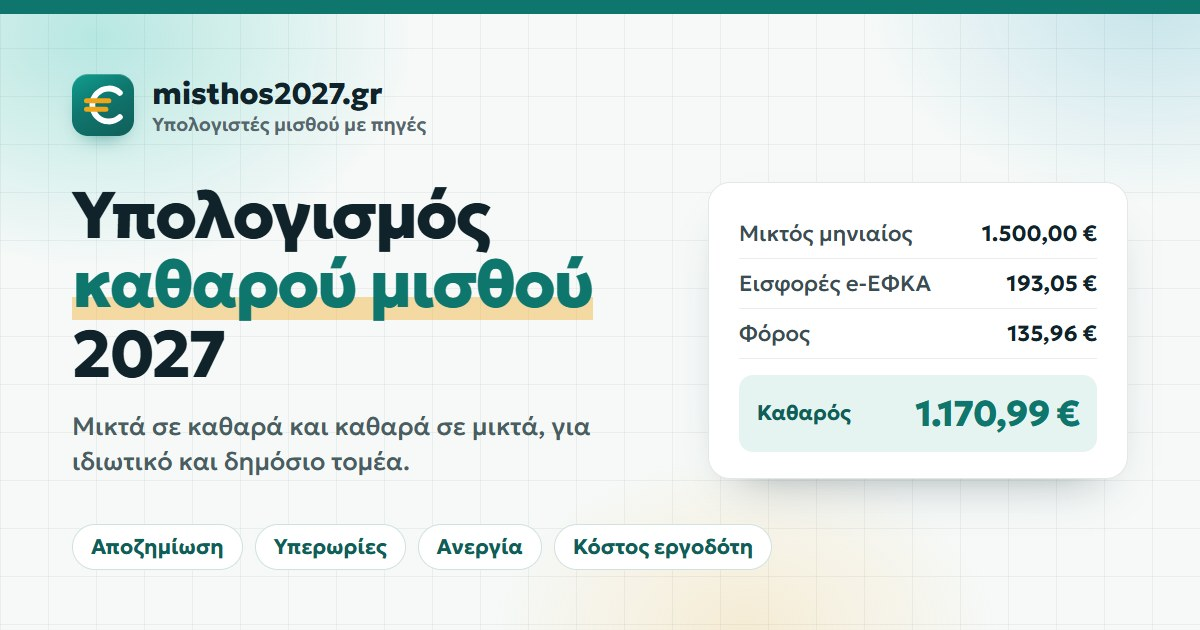
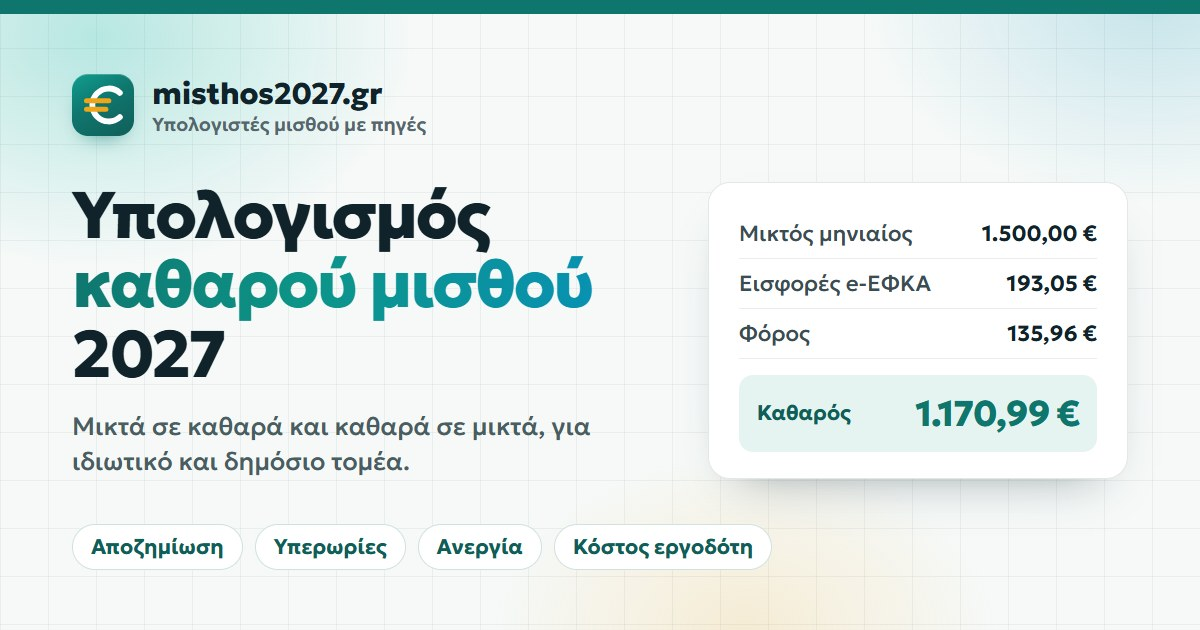
Τίτλοι με χρώμα που σβήνει από πετρόλ σε τιρκουάζ αντί για υπογράμμιση

Changed region(s): [[0.0617, 0.3921, 0.4933, 0.5127]]

diff --git a/apozimiosi-apolysis.html b/apozimiosi-apolysis.html
@@ -1643,7 +1643,7 @@ body>header,.site-header{background:rgba(255,255,255,.72);backdrop-filter:satura
 body>header nav a:hover,.nav-links a:hover{background:#e6f2f0;color:#0f766e}
 .hero{text-align:left;padding-top:44px}
 h1.hero-title{font-weight:800;letter-spacing:-.03em;line-height:1.08;max-width:880px}
-h1.hero-title .grad{background:linear-gradient(transparent 66%,rgba(242,165,22,.34) 66%,rgba(242,165,22,.34) 94%,transparent 94%);-webkit-background-clip:border-box;background-clip:border-box;color:#0f766e;-webkit-text-fill-color:#0f766e}
+h1.hero-title .grad{background:linear-gradient(100deg,#0f766e 0%,#0d9488 45%,#0891b2 100%);-webkit-background-clip:text;background-clip:text;color:transparent;-webkit-text-fill-color:transparent;padding-bottom:.06em}
 .hero-sub{margin:0;max-width:700px;font-size:17px;line-height:1.6;color:#4a5d63}
 .page-hero h1{background:none;-webkit-text-fill-color:currentColor;color:#10232b;letter-spacing:-.03em}
 .card,.content-card,.form-card,.info-card,article.article-card{background:#fff;backdrop-filter:none;-webkit-backdrop-filter:none;border:1px solid #e1e8e6;box-shadow:0 1px 2px rgba(16,35,43,.04),0 16px 36px -24px rgba(16,35,43,.22)}

diff --git a/en/index.html b/en/index.html
@@ -1650,7 +1650,7 @@ body>header,.site-header{background:rgba(255,255,255,.72);backdrop-filter:satura
 body>header nav a:hover,.nav-links a:hover{background:#e6f2f0;color:#0f766e}
 .hero{text-align:left;padding-top:44px}
 h1.hero-title{font-weight:800;letter-spacing:-.03em;line-height:1.08;max-width:880px}
-h1.hero-title .grad{background:linear-gradient(transparent 66%,rgba(242,165,22,.34) 66%,rgba(242,165,22,.34) 94%,transparent 94%);-webkit-background-clip:border-box;background-clip:border-box;color:#0f766e;-webkit-text-fill-color:#0f766e}
+h1.hero-title .grad{background:linear-gradient(100deg,#0f766e 0%,#0d9488 45%,#0891b2 100%);-webkit-background-clip:text;background-clip:text;color:transparent;-webkit-text-fill-color:transparent;padding-bottom:.06em}
 .hero-sub{margin:0;max-width:700px;font-size:17px;line-height:1.6;color:#4a5d63}
 .page-hero h1{background:none;-webkit-text-fill-color:currentColor;color:#10232b;letter-spacing:-.03em}
 .card,.content-card,.form-card,.info-card,article.article-card{background:#fff;backdrop-filter:none;-webkit-backdrop-filter:none;border:1px solid #e1e8e6;box-shadow:0 1px 2px rgba(16,35,43,.04),0 16px 36px -24px rgba(16,35,43,.22)}

diff --git a/ergodotes.html b/ergodotes.html
@@ -1632,7 +1632,7 @@ body>header,.site-header{background:rgba(255,255,255,.72);backdrop-filter:satura
 body>header nav a:hover,.nav-links a:hover{background:#e6f2f0;color:#0f766e}
 .hero{text-align:left;padding-top:44px}
 h1.hero-title{font-weight:800;letter-spacing:-.03em;line-height:1.08;max-width:880px}
-h1.hero-title .grad{background:linear-gradient(transparent 66%,rgba(242,165,22,.34) 66%,rgba(242,165,22,.34) 94%,transparent 94%);-webkit-background-clip:border-box;background-clip:border-box;color:#0f766e;-webkit-text-fill-color:#0f766e}
+h1.hero-title .grad{background:linear-gradient(100deg,#0f766e 0%,#0d9488 45%,#0891b2 100%);-webkit-background-clip:text;background-clip:text;color:transparent;-webkit-text-fill-color:transparent;padding-bottom:.06em}
 .hero-sub{margin:0;max-width:700px;font-size:17px;line-height:1.6;color:#4a5d63}
 .page-hero h1{background:none;-webkit-text-fill-color:currentColor;color:#10232b;letter-spacing:-.03em}
 .card,.content-card,.form-card,.info-card,article.article-card{background:#fff;backdrop-filter:none;-webkit-backdrop-filter:none;border:1px solid #e1e8e6;box-shadow:0 1px 2px rgba(16,35,43,.04),0 16px 36px -24px rgba(16,35,43,.22)}

diff --git a/index.html b/index.html
@@ -1416,7 +1416,7 @@ body>header,.site-header{background:rgba(255,255,255,.72);backdrop-filter:satura
 body>header nav a:hover,.nav-links a:hover{background:#e6f2f0;color:#0f766e}
 .hero{text-align:left;padding-top:44px}
 h1.hero-title{font-weight:800;letter-spacing:-.03em;line-height:1.08;max-width:880px}
-h1.hero-title .grad{background:linear-gradient(transparent 66%,rgba(242,165,22,.34) 66%,rgba(242,165,22,.34) 94%,transparent 94%);-webkit-background-clip:border-box;background-clip:border-box;color:#0f766e;-webkit-text-fill-color:#0f766e}
+h1.hero-title .grad{background:linear-gradient(100deg,#0f766e 0%,#0d9488 45%,#0891b2 100%);-webkit-background-clip:text;background-clip:text;color:transparent;-webkit-text-fill-color:transparent;padding-bottom:.06em}
 .hero-sub{margin:0;max-width:700px;font-size:17px;line-height:1.6;color:#4a5d63}
 .page-hero h1{background:none;-webkit-text-fill-color:currentColor;color:#10232b;letter-spacing:-.03em}
 .card,.content-card,.form-card,.info-card,article.article-card{background:#fff;backdrop-filter:none;-webkit-backdrop-filter:none;border:1px solid #e1e8e6;box-shadow:0 1px 2px rgba(16,35,43,.04),0 16px 36px -24px rgba(16,35,43,.22)}

diff --git a/misthotos-i-mpokaki.html b/misthotos-i-mpokaki.html
@@ -1735,7 +1735,7 @@ body>header,.site-header{background:rgba(255,255,255,.72);backdrop-filter:satura
 body>header nav a:hover,.nav-links a:hover{background:#e6f2f0;color:#0f766e}
 .hero{text-align:left;padding-top:44px}
 h1.hero-title{font-weight:800;letter-spacing:-.03em;line-height:1.08;max-width:880px}
-h1.hero-title .grad{background:linear-gradient(transparent 66%,rgba(242,165,22,.34) 66%,rgba(242,165,22,.34) 94%,transparent 94%);-webkit-background-clip:border-box;background-clip:border-box;color:#0f766e;-webkit-text-fill-color:#0f766e}
+h1.hero-title .grad{background:linear-gradient(100deg,#0f766e 0%,#0d9488 45%,#0891b2 100%);-webkit-background-clip:text;background-clip:text;color:transparent;-webkit-text-fill-color:transparent;padding-bottom:.06em}
 .hero-sub{margin:0;max-width:700px;font-size:17px;line-height:1.6;color:#4a5d63}
 .page-hero h1{background:none;-webkit-text-fill-color:currentColor;color:#10232b;letter-spacing:-.03em}
 .card,.content-card,.form-card,.info-card,article.article-card{background:#fff;backdrop-filter:none;-webkit-backdrop-filter:none;border:1px solid #e1e8e6;box-shadow:0 1px 2px rgba(16,35,43,.04),0 16px 36px -24px rgba(16,35,43,.22)}

diff --git a/yperories.html b/yperories.html
@@ -1644,7 +1644,7 @@ body>header,.site-header{background:rgba(255,255,255,.72);backdrop-filter:satura
 body>header nav a:hover,.nav-links a:hover{background:#e6f2f0;color:#0f766e}
 .hero{text-align:left;padding-top:44px}
 h1.hero-title{font-weight:800;letter-spacing:-.03em;line-height:1.08;max-width:880px}
-h1.hero-title .grad{background:linear-gradient(transparent 66%,rgba(242,165,22,.34) 66%,rgba(242,165,22,.34) 94%,transparent 94%);-webkit-background-clip:border-box;background-clip:border-box;color:#0f766e;-webkit-text-fill-color:#0f766e}
+h1.hero-title .grad{background:linear-gradient(100deg,#0f766e 0%,#0d9488 45%,#0891b2 100%);-webkit-background-clip:text;background-clip:text;color:transparent;-webkit-text-fill-color:transparent;padding-bottom:.06em}
 .hero-sub{margin:0;max-width:700px;font-size:17px;line-height:1.6;color:#4a5d63}
 .page-hero h1{background:none;-webkit-text-fill-color:currentColor;color:#10232b;letter-spacing:-.03em}
 .card,.content-card,.form-card,.info-card,article.article-card{background:#fff;backdrop-filter:none;-webkit-backdrop-filter:none;border:1px solid #e1e8e6;box-shadow:0 1px 2px rgba(16,35,43,.04),0 16px 36px -24px rgba(16,35,43,.22)}

diff --git a/ypologismos-epidomatos-anergias.html b/ypologismos-epidomatos-anergias.html
@@ -1710,7 +1710,7 @@ body>header,.site-header{background:rgba(255,255,255,.72);backdrop-filter:satura
 body>header nav a:hover,.nav-links a:hover{background:#e6f2f0;color:#0f766e}
 .hero{text-align:left;padding-top:44px}
 h1.hero-title{font-weight:800;letter-spacing:-.03em;line-height:1.08;max-width:880px}
-h1.hero-title .grad{background:linear-gradient(transparent 66%,rgba(242,165,22,.34) 66%,rgba(242,165,22,.34) 94%,transparent 94%);-webkit-background-clip:border-box;background-clip:border-box;color:#0f766e;-webkit-text-fill-color:#0f766e}
+h1.hero-title .grad{background:linear-gradient(100deg,#0f766e 0%,#0d9488 45%,#0891b2 100%);-webkit-background-clip:text;background-clip:text;color:transparent;-webkit-text-fill-color:transparent;padding-bottom:.06em}
 .hero-sub{margin:0;max-width:700px;font-size:17px;line-height:1.6;color:#4a5d63}
 .page-hero h1{background:none;-webkit-text-fill-color:currentColor;color:#10232b;letter-spacing:-.03em}
 .card,.content-card,.form-card,.info-card,article.article-card{background:#fff;backdrop-filter:none;-webkit-backdrop-filter:none;border:1px solid #e1e8e6;box-shadow:0 1px 2px rgba(16,35,43,.04),0 16px 36px -24px rgba(16,35,43,.22)}

diff --git a/about.html b/about.html
@@ -138,7 +138,7 @@ body>header,.site-header{background:rgba(255,255,255,.72);backdrop-filter:satura
 body>header nav a:hover,.nav-links a:hover{background:#e6f2f0;color:#0f766e}
 .hero{text-align:left;padding-top:44px}
 h1.hero-title{font-weight:800;letter-spacing:-.03em;line-height:1.08;max-width:880px}
-h1.hero-title .grad{background:linear-gradient(transparent 66%,rgba(242,165,22,.34) 66%,rgba(242,165,22,.34) 94%,transparent 94%);-webkit-background-clip:border-box;background-clip:border-box;color:#0f766e;-webkit-text-fill-color:#0f766e}
+h1.hero-title .grad{background:linear-gradient(100deg,#0f766e 0%,#0d9488 45%,#0891b2 100%);-webkit-background-clip:text;background-clip:text;color:transparent;-webkit-text-fill-color:transparent;padding-bottom:.06em}
 .hero-sub{margin:0;max-width:700px;font-size:17px;line-height:1.6;color:#4a5d63}
 .page-hero h1{background:none;-webkit-text-fill-color:currentColor;color:#10232b;letter-spacing:-.03em}
 .card,.content-card,.form-card,.info-card,article.article-card{background:#fff;backdrop-filter:none;-webkit-backdrop-filter:none;border:1px solid #e1e8e6;box-shadow:0 1px 2px rgba(16,35,43,.04),0 16px 36px -24px rgba(16,35,43,.22)}

diff --git a/articles/allages-2027-foros-eisfores.html b/articles/allages-2027-foros-eisfores.html
@@ -139,7 +139,7 @@ body>header,.site-header{background:rgba(255,255,255,.72);backdrop-filter:satura
 body>header nav a:hover,.nav-links a:hover{background:#e6f2f0;color:#0f766e}
 .hero{text-align:left;padding-top:44px}
 h1.hero-title{font-weight:800;letter-spacing:-.03em;line-height:1.08;max-width:880px}
-h1.hero-title .grad{background:linear-gradient(transparent 66%,rgba(242,165,22,.34) 66%,rgba(242,165,22,.34) 94%,transparent 94%);-webkit-background-clip:border-box;background-clip:border-box;color:#0f766e;-webkit-text-fill-color:#0f766e}
+h1.hero-title .grad{background:linear-gradient(100deg,#0f766e 0%,#0d9488 45%,#0891b2 100%);-webkit-background-clip:text;background-clip:text;color:transparent;-webkit-text-fill-color:transparent;padding-bottom:.06em}
 .hero-sub{margin:0;max-width:700px;font-size:17px;line-height:1.6;color:#4a5d63}
 .page-hero h1{background:none;-webkit-text-fill-color:currentColor;color:#10232b;letter-spacing:-.03em}
 .card,.content-card,.form-card,.info-card,article.article-card{background:#fff;backdrop-filter:none;-webkit-backdrop-filter:none;border:1px solid #e1e8e6;box-shadow:0 1px 2px rgba(16,35,43,.04),0 16px 36px -24px rgba(16,35,43,.22)}

diff --git a/articles/argies-2027.html b/articles/argies-2027.html
@@ -139,7 +139,7 @@ body>header,.site-header{background:rgba(255,255,255,.72);backdrop-filter:satura
 body>header nav a:hover,.nav-links a:hover{background:#e6f2f0;color:#0f766e}
 .hero{text-align:left;padding-top:44px}
 h1.hero-title{font-weight:800;letter-spacing:-.03em;line-height:1.08;max-width:880px}
-h1.hero-title .grad{background:linear-gradient(transparent 66%,rgba(242,165,22,.34) 66%,rgba(242,165,22,.34) 94%,transparent 94%);-webkit-background-clip:border-box;background-clip:border-box;color:#0f766e;-webkit-text-fill-color:#0f766e}
+h1.hero-title .grad{background:linear-gradient(100deg,#0f766e 0%,#0d9488 45%,#0891b2 100%);-webkit-background-clip:text;background-clip:text;color:transparent;-webkit-text-fill-color:transparent;padding-bottom:.06em}
 .hero-sub{margin:0;max-width:700px;font-size:17px;line-height:1.6;color:#4a5d63}
 .page-hero h1{background:none;-webkit-text-fill-color:currentColor;color:#10232b;letter-spacing:-.03em}
 .card,.content-card,.form-card,.info-card,article.article-card{background:#fff;backdrop-filter:none;-webkit-backdrop-filter:none;border:1px solid #e1e8e6;box-shadow:0 1px 2px rgba(16,35,43,.04),0 16px 36px -24px rgba(16,35,43,.22)}

diff --git a/articles/doro-xristougennon-2026-pasxa-2027.html b/articles/doro-xristougennon-2026-pasxa-2027.html
@@ -139,7 +139,7 @@ body>header,.site-header{background:rgba(255,255,255,.72);backdrop-filter:satura
 body>header nav a:hover,.nav-links a:hover{background:#e6f2f0;color:#0f766e}
 .hero{text-align:left;padding-top:44px}
 h1.hero-title{font-weight:800;letter-spacing:-.03em;line-height:1.08;max-width:880px}
-h1.hero-title .grad{background:linear-gradient(transparent 66%,rgba(242,165,22,.34) 66%,rgba(242,165,22,.34) 94%,transparent 94%);-webkit-background-clip:border-box;background-clip:border-box;color:#0f766e;-webkit-text-fill-color:#0f766e}
+h1.hero-title .grad{background:linear-gradient(100deg,#0f766e 0%,#0d9488 45%,#0891b2 100%);-webkit-background-clip:text;background-clip:text;color:transparent;-webkit-text-fill-color:transparent;padding-bottom:.06em}
 .hero-sub{margin:0;max-width:700px;font-size:17px;line-height:1.6;color:#4a5d63}
 .page-hero h1{background:none;-webkit-text-fill-color:currentColor;color:#10232b;letter-spacing:-.03em}
 .card,.content-card,.form-card,.info-card,article.article-card{background:#fff;backdrop-filter:none;-webkit-backdrop-filter:none;border:1px solid #e1e8e6;box-shadow:0 1px 2px rgba(16,35,43,.04),0 16px 36px -24px rgba(16,35,43,.22)}

diff --git a/articles/epidoma-adeias-2027.html b/articles/epidoma-adeias-2027.html
@@ -139,7 +139,7 @@ body>header,.site-header{background:rgba(255,255,255,.72);backdrop-filter:satura
 body>header nav a:hover,.nav-links a:hover{background:#e6f2f0;color:#0f766e}
 .hero{text-align:left;padding-top:44px}
 h1.hero-title{font-weight:800;letter-spacing:-.03em;line-height:1.08;max-width:880px}
-h1.hero-title .grad{background:linear-gradient(transparent 66%,rgba(242,165,22,.34) 66%,rgba(242,165,22,.34) 94%,transparent 94%);-webkit-background-clip:border-box;background-clip:border-box;color:#0f766e;-webkit-text-fill-color:#0f766e}
+h1.hero-title .grad{background:linear-gradient(100deg,#0f766e 0%,#0d9488 45%,#0891b2 100%);-webkit-background-clip:text;background-clip:text;color:transparent;-webkit-text-fill-color:transparent;padding-bottom:.06em}
 .hero-sub{margin:0;max-width:700px;font-size:17px;line-height:1.6;color:#4a5d63}
 .page-hero h1{background:none;-webkit-text-fill-color:currentColor;color:#10232b;letter-spacing:-.03em}
 .card,.content-card,.form-card,.info-card,article.article-card{background:#fff;backdrop-filter:none;-webkit-backdrop-filter:none;border:1px solid #e1e8e6;box-shadow:0 1px 2px rgba(16,35,43,.04),0 16px 36px -24px rgba(16,35,43,.22)}
